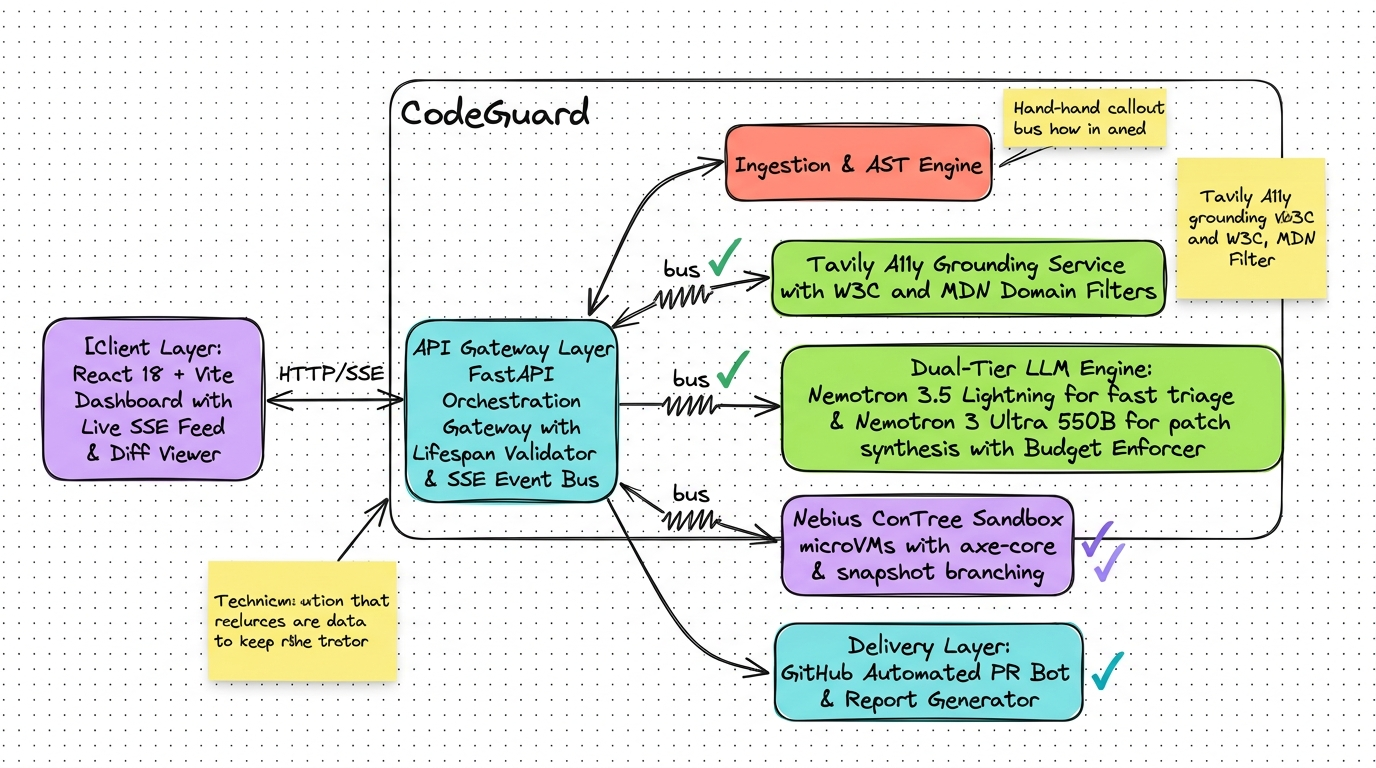
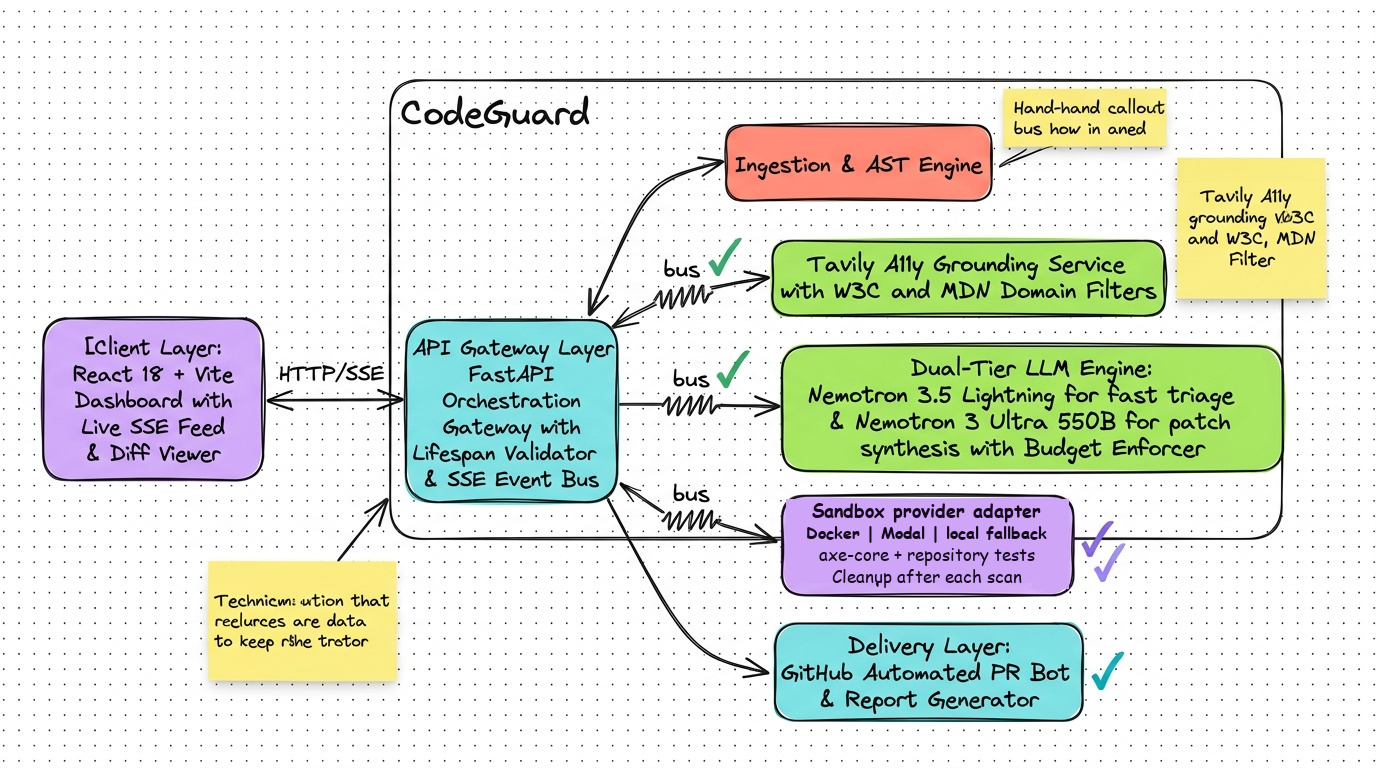
docs: add architecture sketches and update documentation for multi-provider sandbox verification

Changed region(s): [[0.5625, 0.6562, 0.7812, 0.7812]]

diff --git a/README.md b/README.md
@@ -16,7 +16,7 @@
 ## 🎬 Demo Walkthrough
 
 ![CodeGuard Demo](./docs/demo.gif)
-*Watch CodeGuard autonomously scan a frontend repository, stream real-time violation diagnosis, verify patches inside an isolated Nebius sandbox, and open an automated GitHub Pull Request.*
+*Watch CodeGuard scan a frontend repository, stream real-time violation diagnosis, verify proposed patches with its configured sandbox provider, and open an automated GitHub Pull Request.*
 
 ---
 
@@ -27,7 +27,7 @@
 1. **Intelligent Ingestion & Scanning**: CodeGuard performs a lightweight shallow clone of the target repository, discovers all user interface files (`.tsx`, `.jsx`, `.html`, `.vue`, `.svelte`), and constructs token-efficient abstract syntax batches. Using **NVIDIA Nemotron 3.5 Lightning**, it rapidly audits hundreds of code blocks in parallel against the **WCAG 2.2 AA** specification, flagging unlabeled form elements, missing alternative text, broken focus traps, keyboard accessibility failures, and color contrast defects.
 2. **Authoritative Web Search Grounding via Tavily**: Before diagnosing root causes or generating patches, CodeGuard queries **Tavily AI Search** restricted strictly to authoritative a11y bodies (`w3.org`, `developer.mozilla.org`, `webaim.org`, `dequeuniversity.com`, `a11yproject.com`). It extracts live WCAG 2.2 techniques and verified accessible markup examples, injecting them directly into the Nemotron prompt context to ground generation in official standards rather than hallucinated patterns.
 3. **Contextual Diagnosis & Patch Synthesis**: For critical accessibility violations, CodeGuard routes the problematic code and authoritative guidance to **NVIDIA Nemotron 3 Ultra (550B)**. The model analyzes component hierarchy, state management, and user interaction patterns to synthesize clean, idiomatic code remediations, generating exact unified git diffs rather than generic advice.
-4. **Isolated Sandbox Verification & PR Automation**: Rather than blindly proposing code modifications, CodeGuard spins up an isolated **Nebius AI Cloud Sandbox**. Inside this microVM, it applies the synthesized patch, executes `@axe-core/playwright`, and runs the project's native test suite to verify that the accessibility defect was eliminated without causing functional regressions. Once verified, CodeGuard generates comprehensive HTML/Markdown audit reports with clickable grounding source citations and can automatically create a verified remediation branch and GitHub Pull Request.
+4. **Sandbox Verification & PR Automation**: CodeGuard prepares a verification workspace through its sandbox provider, applies a proposed patch, runs axe-core and the repository test command when available, then records the verification result. Supported providers are Docker, Modal, and a local workspace fallback. The local fallback is intended for development and is not an OS-level security boundary. Reports can be exported as HTML/Markdown, and eligible verified fixes can be submitted as a GitHub pull request.
 
 ---
 
@@ -59,23 +59,28 @@ CodeGuard implements a tiered, cost-optimized LLM orchestration architecture pow
 
 ---
 
-## 🔒 How It Uses Nebius AI Cloud Sandboxes
+## How Sandbox Verification Works
 
-The **isolated verification loop** is CodeGuard's core differentiator:
+The sandbox client provides one interface for workspace creation, file transfer, command execution, timeouts, and cleanup. For a scan, CodeGuard creates a clean baseline workspace and installs dependencies when a supported package manifest is found. Each proposed fix is tested in a fresh verification workspace: the patch is applied, axe-core is run, and the repository test command is executed when available. Sandbox IDs are tracked per scan and cleaned up after the pipeline completes.
 
+```text
+[Prepare repository] -> [Create baseline workspace]
+                               |
+[Report / optional PR] <- [Record axe + test results]
+                               ^
+                [Fresh workspace per fix]
+                   |-- Apply proposed patch
+                   |-- Run axe-core check
+                   `-- Run repository tests
 ```
-[Synthesize Patch] ──► [Spin Up Nebius Sandbox] ──► [Apply Git Patch]
-                                                            │
-[Pass Verification] ◄── [Run Repository Test Suite] ◄── [Run axe-core]
-        │
-[Open GitHub PR / Export Report]
-```
 
-Executing untrusted, newly patched frontend code directly on host infrastructure is dangerous and unreliable. CodeGuard provisions ephemeral **Nebius AI Cloud Sandboxes** (containerized microVM environments) managed via Python asynchronous context managers:
-1. **Isolated Execution**: Clones the remediation target in a sandboxed container, ensuring untrusted repository code never touches host processes.
-2. **Automated axe-core Validation**: Executes headless browser audits inside the sandbox to empirically prove the WCAG violation has been resolved.
-3. **Regression Prevention**: Automatically triggers the repository's native test suite (e.g. `npm test`, `jest`, `vitest`) to verify that the accessibility patch did not break existing application behavior.
-4. **Guaranteed Teardown**: Sandbox destruction is enforced inside `finally` blocks upon test completion or error, preventing idle compute leakage.
+### Sandbox providers
+
+- **Docker** (`SANDBOX_PROVIDER=docker`, default): starts a disposable container when Docker is available. If Docker cannot be reached, the current implementation falls back to the local workspace provider.
+- **Modal** (`SANDBOX_PROVIDER=modal`): provisions a Modal Sandbox using the configured Modal account and the Playwright image defined by the sandbox client.
+- **Local workspace**: stores files in a temporary directory and runs commands as local subprocesses. This is useful for development and tests, but it does not isolate untrusted repository code from the host. Do not use it as a security boundary for arbitrary repositories.
+
+Dependency installation and browser availability depend on the selected provider and target repository. A passing axe scan and test command are useful verification signals; they do not establish complete WCAG conformance or guarantee that a generated patch is correct. Review changes before merging.
 
 ---
 
@@ -110,7 +115,7 @@ CodeGuard relies on the following official model endpoints hosted on Nebius Toke
 
 ## 🏛 Architecture & High-Level Design (HLD)
 
-For the full architectural specification, state machine flowcharts, sandbox snapshot caching, and resilience matrices, read [**docs/HLD.md**](docs/HLD.md).
+For the full architectural specification, pipeline flowcharts, sandbox provider details, and resilience notes, read [**docs/HLD.md**](docs/HLD.md).
 
 ### 🎨 Hand-Drawn Architectural Blueprint
 
@@ -125,7 +130,7 @@ For the full architectural specification, state machine flowcharts, sandbox snap
 - **Ingestion & AST Engine**: Shallow git clone worker and markup parser extracting component AST chunks.
 - **Tavily Grounding Service**: Domain-restricted retriever querying W3C, MDN, and Deque for official WCAG 2.2 techniques.
 - **Dual-Tier LLM Engine**: Cost-optimized routing pairing **Nemotron 3.5 Lightning** (fast triage) with **Nemotron 3 Ultra 550B** (patch synthesis) protected by strict budget limits.
-- **Nebius ConTree Sandbox microVMs**: Ephemeral containerized verification running `@axe-core/playwright` and test suites with snapshot branching.
+- **Sandbox Provider Adapter**: Docker containers, Modal Sandboxes, or a local workspace fallback for development; runs axe-core and repository tests where configured.
 - **Delivery Layer**: Automated GitHub Pull Request bot and comprehensive compliance report exporter (HTML/JSON/Markdown).
 
 ---
@@ -143,7 +148,7 @@ For the complete interactive user journey, sequence diagrams, and step-by-step b
 ```text
   [1. Input Repo URL] ──► [2. Live Real-Time Audit & SSE Feed] ──► [3. Explore Violations & MDN Grounding]
                                                                                 │
-  [6. Automated GitHub PR] ◄── [5. Nebius MicroVM Sandbox] ◄── [4. Inspect Nemotron Git Diffs]
+  [6. Automated GitHub PR] ◄── [5. Provider Sandbox Verification] ◄── [4. Inspect Nemotron Git Diffs]
 ```
 
 ---
@@ -197,7 +202,8 @@ cp .env.example .env
 Edit `backend/.env` with your API credentials (refer to `backend/.env.example` and `backend/.env.production.example` for reference):
 ```env
 NEBIUS_TOKEN_FACTORY_API_KEY=your_nebius_api_key_here
-NEBIUS_SANDBOX_API_KEY=your_sandbox_api_key_here  # optional, mock fallback active by default
+SANDBOX_PROVIDER=docker  # docker (default), modal, or local fallback when Docker is unavailable
+SANDBOX_DEFAULT_IMAGE=node:20-slim
 GITHUB_TOKEN=your_personal_access_token_here      # required for automated PR creation
 TAVILY_API_KEY=your_tavily_api_key_here          # required for live WCAG web grounding
 ```
@@ -245,7 +251,7 @@ Extracted from [**docs/tech-stack.md**](docs/tech-stack.md):
 - **Frontend**: React 18, TypeScript, Vite, Tailwind CSS, Framer Motion, Recharts, Lucide React
 - **AI & Inference**: Nebius Token Factory, NVIDIA Nemotron 3.5 Lightning, NVIDIA Nemotron 3 Ultra (550B)
 - **Web Search Grounding**: Tavily AI Search (`tavily-python`), domain-restricted WCAG retrieval
-- **Verification & Sandboxing**: Nebius AI Cloud Sandboxes, Playwright, `@axe-core/playwright`, Headless Chromium
+- **Verification & Sandboxing**: Docker / Modal / local workspace provider, Playwright, axe-core, Headless Chromium
 - **Real-time Protocol**: Native WebSockets for low-latency pipeline streaming
 
 ---
@@ -298,8 +304,8 @@ We believe in complete engineering honesty. The following real-world limitations
    - While CodeGuard flags heading skips (`<h1>` directly followed by `<h3>`), remediating global heading hierarchy across multiple decoupled components often requires site-wide layout refactoring rather than local single-file patches.
 3. **GitHub Pull Request Creation Requires Repository Write Permissions**:
    - Automated PR creation relies on a GitHub Personal Access Token (`GITHUB_TOKEN`). CodeGuard can only push remediation branches and open PRs on repositories where the token has write/collaborator permissions. Scans on foreign or read-only repos still provide full reports and downloadable diffs.
-4. **Sandbox Dependency Installation Overhead**:
-   - In environments without pre-warmed container snapshots, running `npm install` inside fresh sandboxes introduces latency before test verification commences.
+4. **Sandbox Provider and Isolation Depend on Configuration**:
+   - Docker or Modal should be selected for isolated verification. The local workspace fallback executes subprocesses on the backend host and is intended only for development; it is not suitable for running untrusted repositories as an isolation boundary. Fresh workspaces may also incur dependency-installation and browser setup time.
 
 ---
 
